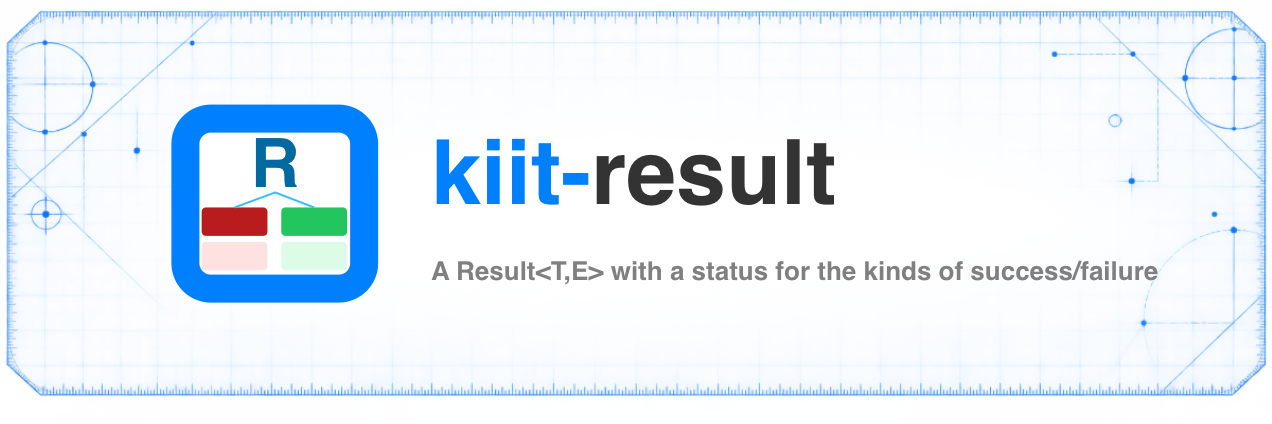
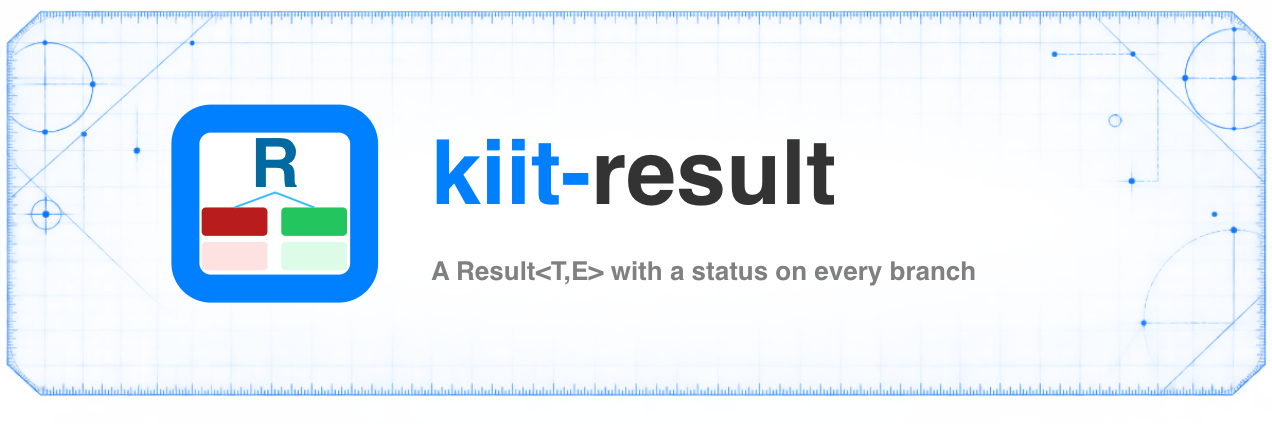
fix: diagrams and docs

Changed region(s): [[0.6132, 0.6132, 0.9198, 0.6745]]

diff --git a/README.md b/README.md
@@ -5,7 +5,7 @@
 
 **A Kotlin `Result<T, E>` type with a kiit-codes status on every branch, not just failure.**
 
-`Success` holds a value, `Failure` holds an error, and either can carry an `Action` recording which operation produced it, useful for tracing across nested or chained calls.
+Every `Success` and `Failure` carries a **status** from kiit-codes' closed taxonomy, classifying the kind of success or failure outcome, not just whether one occurred. Unlike Rust's `Result`, Swift's `Result`, or kotlin-result, `Success` here isn't just a bare value, it carries the same kind of classification `Failure` does.
 
 [![Maven Central](https://img.shields.io/maven-central/v/dev.kiit/kiit-result?color=blue)](https://central.sonatype.com/artifact/dev.kiit/kiit-result)
 [![Build](https://img.shields.io/github/actions/workflow/status/kiitdev/kiit-result/ci.yml?branch=main)](https://github.com/kiitdev/kiit-result/actions/workflows/ci.yml)
@@ -36,16 +36,24 @@ Part of [Kiit](https://www.kiit.dev) · [Docs](https://www.kiit.dev/docs/kiit-re
 
 ## Why
 
-Returning `null` loses the reason. Throwing is expensive for expected, recoverable failures. Either way, every caller ends up re-deriving the same success/failure branching logic by hand.
+Most approaches capture whether something succeeded or failed, but do not have a mechanism for also indicating what the kind of success or failure it was. This is the primary gap that this library is aiming to solve.
 
 **kiit-result is a `Result<T, E>` with kiit-codes' closed status taxonomy built in.** `Success` carries a `Passed` status, `Failure` carries a `Failed` status, and builders (`restricted()`, `invalid()`, ...) map each case to its matching category automatically. See [Concepts](#concepts) and [Builders](#builders) for the full picture.
 
 ```kotlin
+import kiit.codes.Invalid
+import kiit.codes.Rejected
+import kiit.codes.Restricted
+import kiit.codes.Succeeded
+
 val outcome: Outcome<User> = userService.create("alice", "alice@example.com")
-outcome.fold(
-    { user -> println("created ${user.id}") },
-    { err -> println("failed: ${err.message} (${outcome.status.name})") },
-)
+when (val status = outcome.status) {
+    is Succeeded -> println("created")
+    is Restricted -> println("not allowed: ${status.name}")
+    is Invalid -> println("bad input: ${status.name}")
+    is Rejected -> println("conflict: ${status.name}")
+    else -> println("failed: ${status.name}")
+}
 ```
 
 ## Start
@@ -65,6 +73,7 @@ dependencies {
 ```kotlin
 import kiit.codes.Invalid
 import kiit.codes.Rejected
+import kiit.codes.Restricted
 import kiit.result.Outcome
 import kiit.result.Outcomes
 
@@ -72,6 +81,7 @@ class UserService {
     private val users = mutableMapOf<String, User>()
 
     fun create(id: String, email: String): Outcome<User> {
+        if (id == "admin") return Outcomes.restricted(Restricted.DENIED)
         if (email.isBlank()) return Outcomes.invalid(Invalid.BAD_REQUEST)
         if (users.containsKey(id)) return Outcomes.rejected(Rejected.CONFLICT)
         val user = User(id, email)
